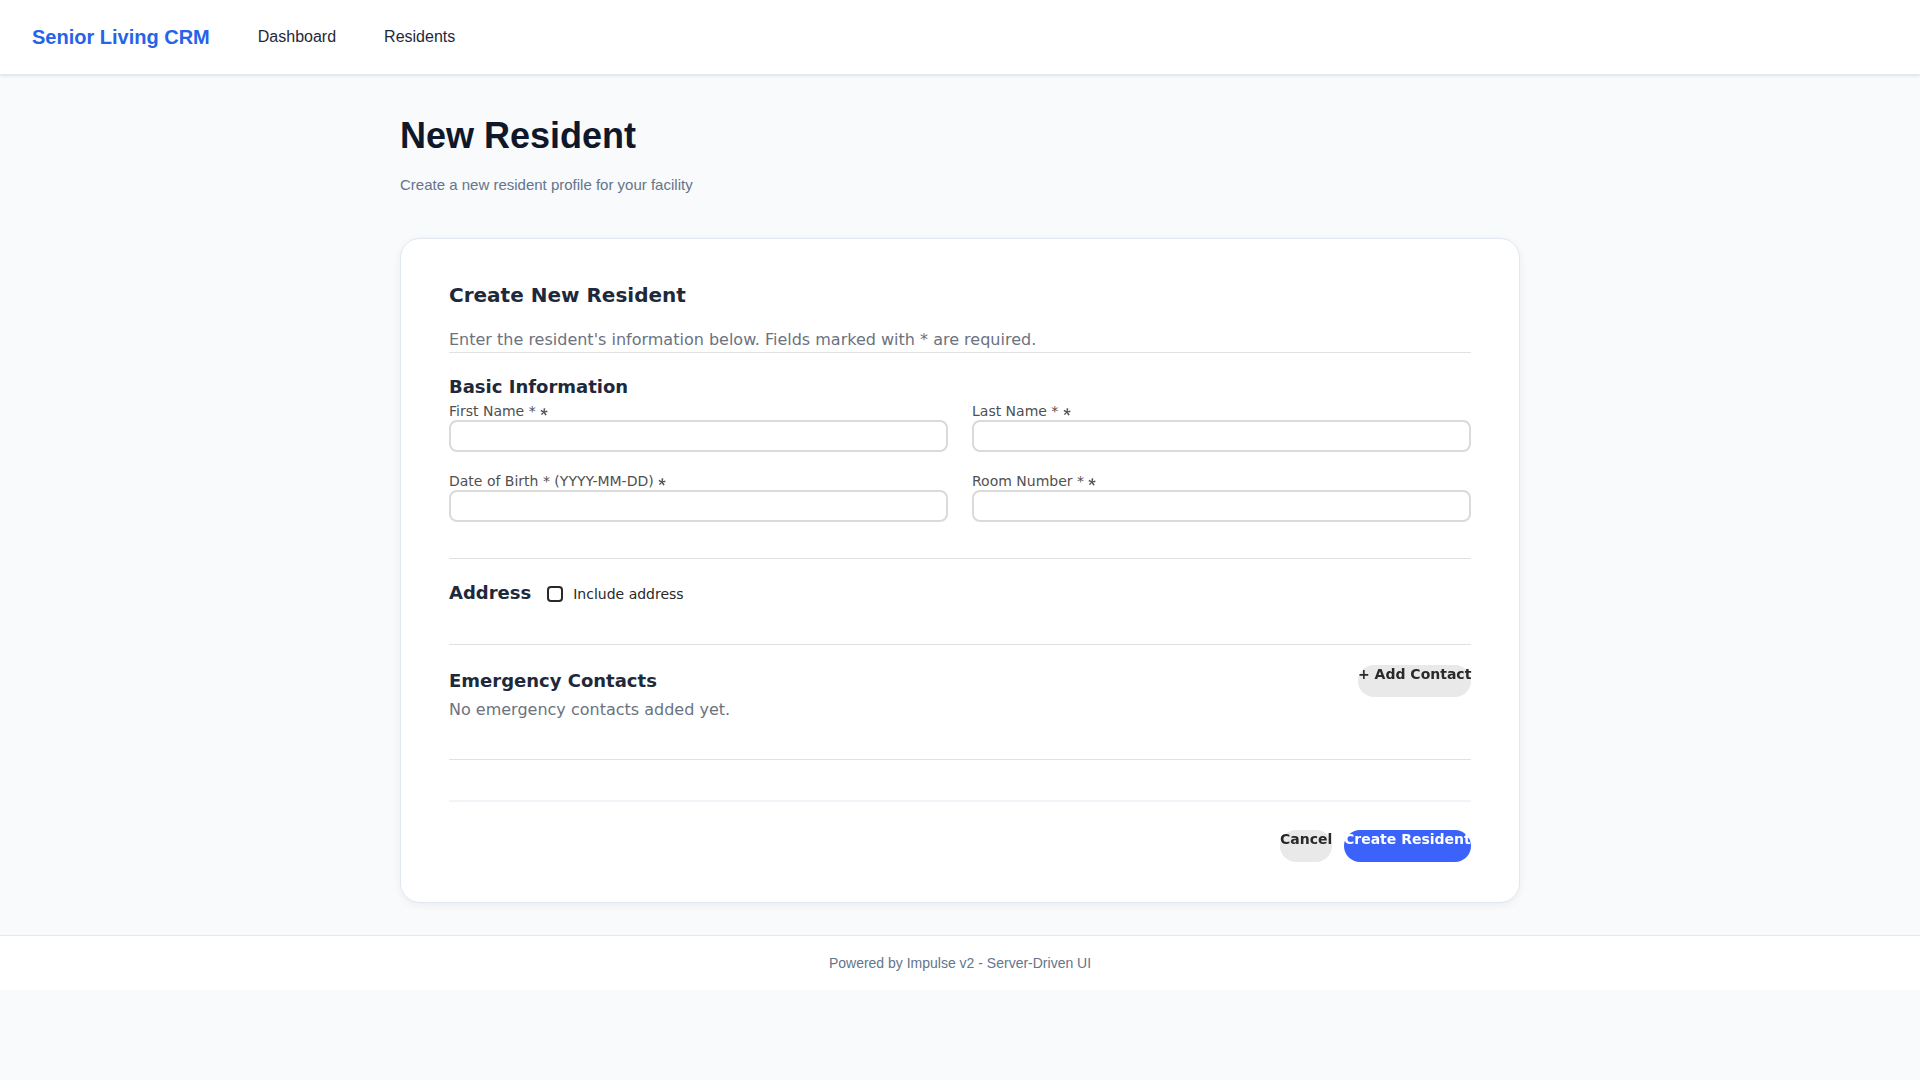
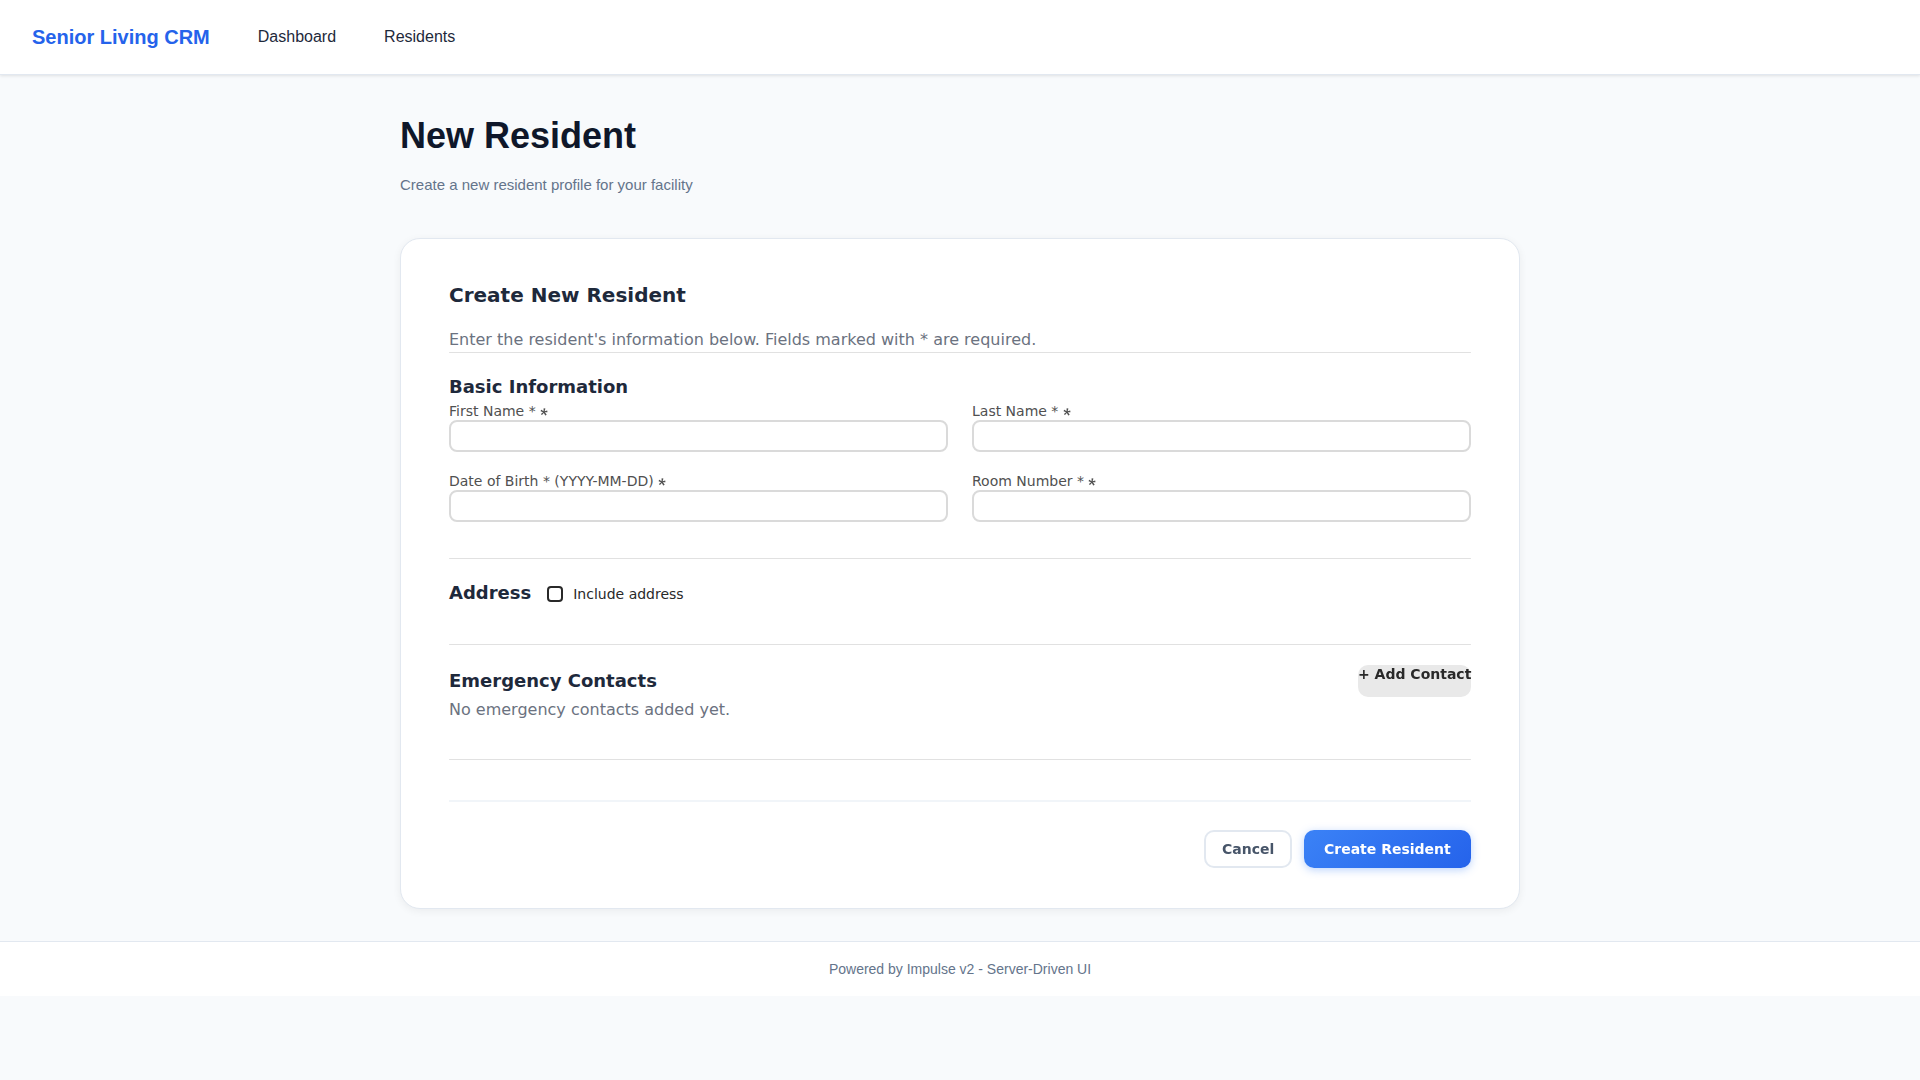
style: Improve button styling with clean gradients and borders
- Add global S2 button overrides for professional appearance
- Primary buttons: Blue gradient with shadow
- Secondary buttons: White with subtle border
- Proper rounded corners (10px) and hover states
- Context-specific styling for dashboard, form, and card buttons

Changed region(s): [[0.625, 0.7639, 0.7812, 0.825], [0.4375, 0.8861, 0.5625, 0.9167]]

diff --git a/impulse-v2/samples/SampleApp/client/styles.css b/impulse-v2/samples/SampleApp/client/styles.css
@@ -34,6 +34,79 @@
   width: 100%;
 }
 
+/* ========================================
+   CRITICAL: Global S2 Button Overrides
+   Make buttons look professional
+   ======================================== */
+
+/* Base button styles - target all S2 buttons */
+button {
+  font-weight: 600 !important;
+  border-radius: 10px !important;
+  transition: all 0.2s ease !important;
+  cursor: pointer !important;
+}
+
+/* Accent/Primary buttons - Clean blue style */
+button[style*="accent"],
+button[data-variant="accent"],
+.dashboard-actions button:last-child,
+.form-actions button[type="submit"],
+.residents-header button:last-child {
+  background: linear-gradient(135deg, #3b82f6 0%, #2563eb 100%) !important;
+  border: none !important;
+  color: white !important;
+  box-shadow: 0 2px 8px rgba(59, 130, 246, 0.35) !important;
+  padding: 10px 20px !important;
+}
+
+button[style*="accent"]:hover,
+button[data-variant="accent"]:hover,
+.dashboard-actions button:last-child:hover,
+.form-actions button[type="submit"]:hover,
+.residents-header button:last-child:hover {
+  background: linear-gradient(135deg, #2563eb 0%, #1d4ed8 100%) !important;
+  box-shadow: 0 6px 16px rgba(59, 130, 246, 0.45) !important;
+  transform: translateY(-2px) !important;
+}
+
+/* Secondary/Outline buttons */
+button[style*="secondary"],
+button[data-variant="secondary"],
+.dashboard-actions button:first-child,
+.form-actions button:not([type="submit"]),
+.card-header button {
+  background: white !important;
+  border: 2px solid #e2e8f0 !important;
+  color: #475569 !important;
+  box-shadow: none !important;
+  padding: 8px 16px !important;
+}
+
+button[style*="secondary"]:hover,
+button[data-variant="secondary"]:hover,
+.dashboard-actions button:first-child:hover,
+.form-actions button:not([type="submit"]):hover,
+.card-header button:hover {
+  background: #f1f5f9 !important;
+  border-color: #cbd5e1 !important;
+  color: #1e293b !important;
+}
+
+/* Small View All buttons in cards */
+.card-header button {
+  padding: 6px 14px !important;
+  font-size: 13px !important;
+  font-weight: 600 !important;
+  border-radius: 8px !important;
+}
+
+/* Add Resident button - prominent */
+.residents-header button {
+  padding: 10px 20px !important;
+  font-size: 14px !important;
+}
+
 :root {
   --color-primary: #2563eb;
   --color-primary-dark: #1d4ed8;
